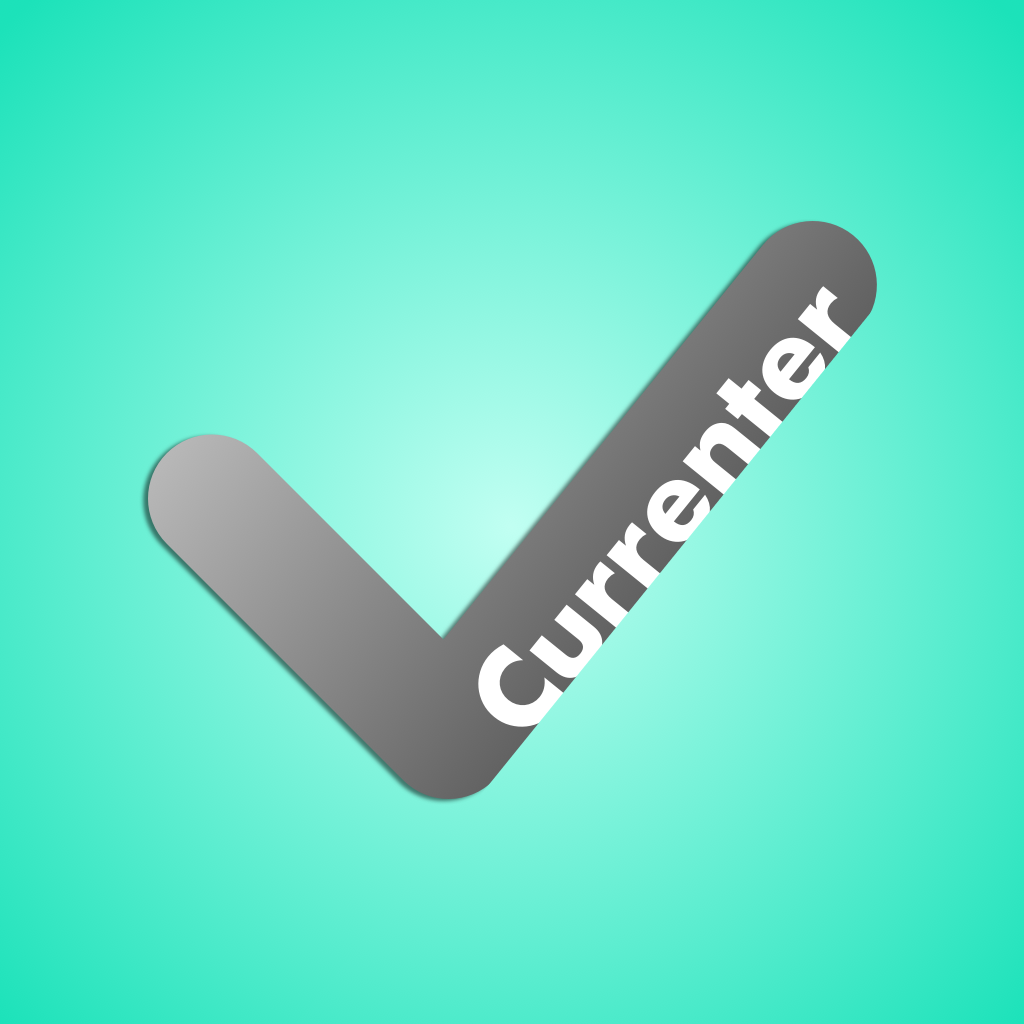
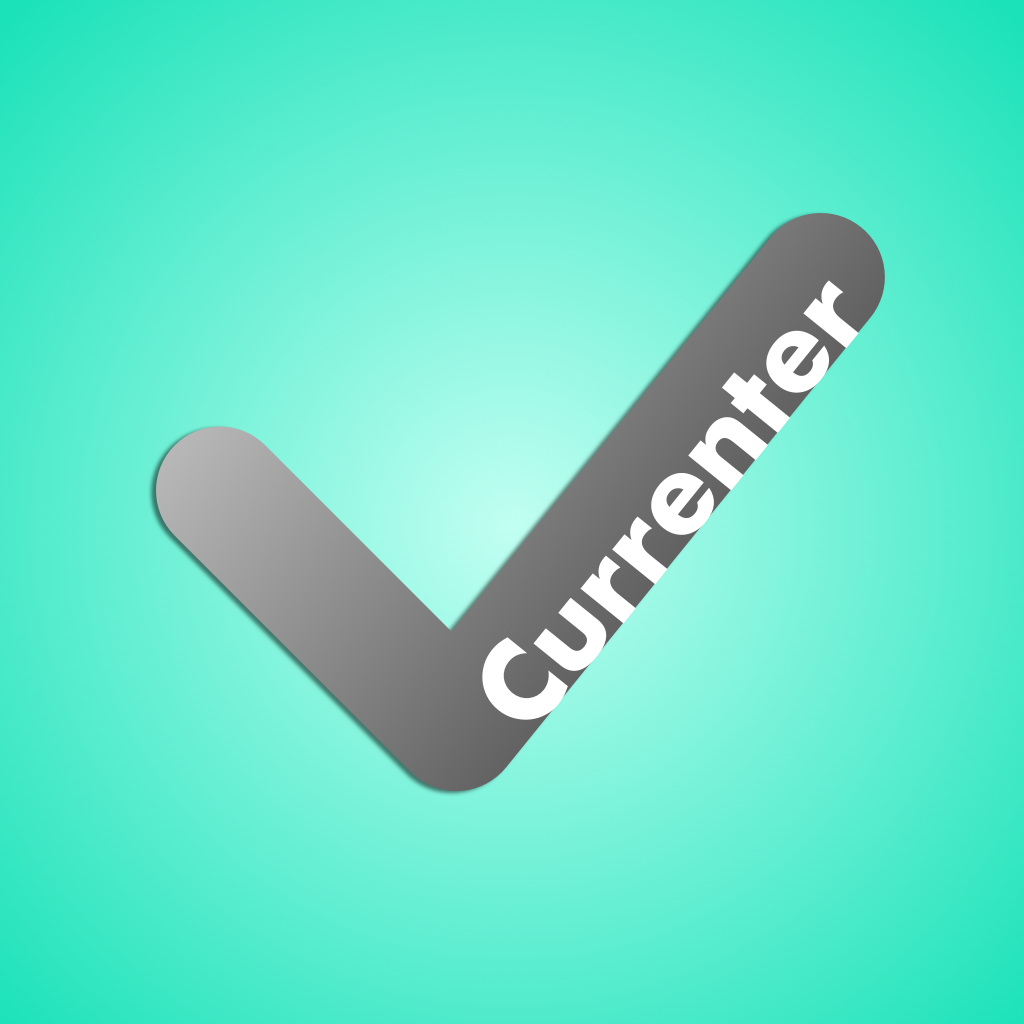
ロゴ微修正

diff --git a/README.md b/README.md
@@ -2,8 +2,6 @@
 
 その他
 
-    App名
-    アイコン -> Sketch
     デザイン
     Listのnavbarの下線
     launchscreenのautolayout
